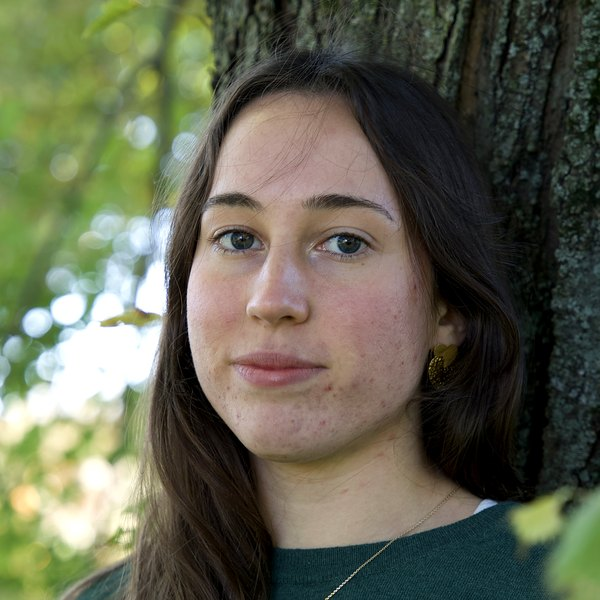
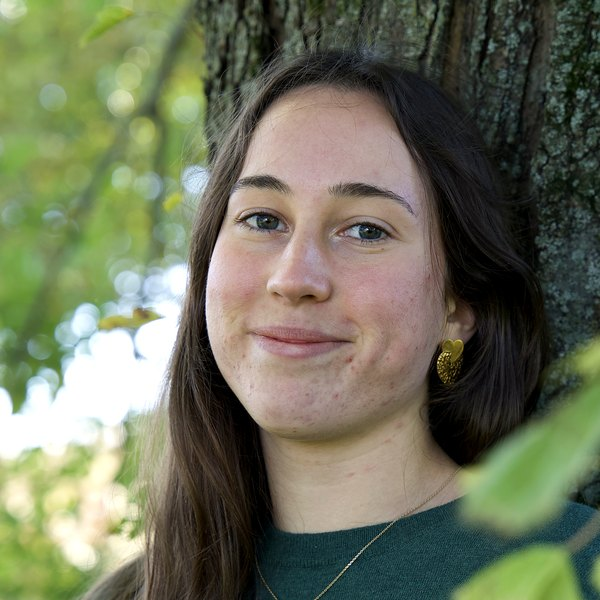
Smiley portrait; client quote as a small card beside the work; Send opens a ready email until a form service is connected

diff --git a/index.html b/index.html
@@ -20,7 +20,7 @@
 <link rel="preconnect" href="https://fonts.googleapis.com">
 <link rel="preconnect" href="https://fonts.gstatic.com" crossorigin>
 <link href="https://fonts.googleapis.com/css2?family=Instrument+Sans:wght@400;500;600&family=Instrument+Serif:ital@0;1&family=Cormorant+Garamond:ital,wght@0,500;1,500&family=Fraunces:ital,opsz,wght@0,9..144,500;0,9..144,600;1,9..144,500&family=Syne:wght@600;700;800&family=DM+Mono:wght@400;500&display=swap" rel="stylesheet">
-<link rel="stylesheet" href="styles.css?v=38">
+<link rel="stylesheet" href="styles.css?v=39">
 </head>
 <body>
 
@@ -103,6 +103,11 @@
       <p class="label" data-i18n="work.label">My work</p>
       <h2 data-i18n="work.title">Before and after</h2>
       <p data-i18n="work.p">Pick a project and drag the line to see how it started and how it looks now.</p>
+      <figure class="mini-quote">
+        <svg viewBox="0 0 64 48" aria-hidden="true"><path d="M0 48V28C0 12 8 3 24 0l3 6C17 9 13 15 13 22h11v26zM37 48V28C37 12 45 3 61 0l3 6c-10 3-14 9-14 16h11v26z"/></svg>
+        <blockquote><p data-i18n="q.text">I was amazed at how quickly it was done and how professional and beautiful it looks. Our old website looked outdated, and now everything looks wonderful. The wording is excellent too.</p></blockquote>
+        <figcaption><span class="quote-who">Orbita prijevodi</span><span class="quote-role" data-i18n="q.role">Owner, translation agency</span></figcaption>
+      </figure>
     </div>
     <div class="work" aria-label="My work">
       <div class="tabs project-tabs" role="tablist" aria-label="Projects">
@@ -133,14 +138,6 @@
         <a id="ba-visit" href="https://anjagregoran.github.io/orbita-prijevodi/" target="_blank" rel="noopener" data-i18n="ba.visit">Visit the site</a>
       </p>
     </div>
-  </section>
-
-  <section class="quote">
-    <svg class="quote-mark" viewBox="0 0 64 48" aria-hidden="true"><path d="M0 48V28C0 12 8 3 24 0l3 6C17 9 13 15 13 22h11v26zM37 48V28C37 12 45 3 61 0l3 6c-10 3-14 9-14 16h11v26z"/></svg>
-    <blockquote>
-      <p data-i18n="q.text">I was amazed at how quickly it was done and how professional and beautiful it looks. Our old website looked outdated, and now everything looks wonderful. The wording is excellent too.</p>
-      <footer><span class="quote-who">Orbita prijevodi</span><span class="quote-role" data-i18n="q.role">Owner, translation agency</span></footer>
-    </blockquote>
   </section>
 
   <section class="steps-section" id="how">
@@ -230,8 +227,8 @@
   <span>© 2026</span>
 </footer>
 
-<script src="content.js?v=19"></script>
-<script src="app.js?v=13"></script>
+<script src="content.js?v=20"></script>
+<script src="app.js?v=14"></script>
 <script src="demo.js?v=8"></script>
 </body>
 </html>

diff --git a/content.js b/content.js
@@ -1,6 +1,6 @@
-// FORM_ENDPOINT: where the sign-up form sends, for example "https://formsubmit.co/ajax/YOUR@EMAIL"
-// or a Formspree address. While it is empty, the form does not send.
-const FORM_ENDPOINT = "https://formsubmit.co/ajax/anja.gregoran1@gmail.com";
+// FORM_ENDPOINT: a form service address (for example Web3Forms). While it is empty,
+// pressing Send opens the visitor's email app with the whole enquiry already filled in.
+const FORM_ENDPOINT = "";
 
 // English lives in index.html. Croatian lives here, one line per piece of text.
 const HR = {
@@ -104,6 +104,7 @@ const STATUS = {
     offline: "The form is not connected yet, so your message was not sent.",
     sending: "Sending.",
     sent: "Thank you, I will write back to you soon.",
+    opened: "Your email app has opened with your message ready. Just press send and I will write back soon.",
     error: "The form could not send just now, but you can send the same message by email in one click.",
     mail: "Send by email"
   },
@@ -112,6 +113,7 @@ const STATUS = {
     offline: "Obrazac još nije povezan, pa vaša poruka nije poslana.",
     sending: "Šaljem.",
     sent: "Hvala vam, javit ću vam se uskoro.",
+    opened: "Otvorila se vaša aplikacija za e-poštu s već pripremljenom porukom. Samo je pošaljite, a ja ću vam se uskoro javiti.",
     error: "Obrazac trenutačno ne može poslati poruku, ali istu poruku možete poslati e-poštom jednim klikom.",
     mail: "Pošaljite e-poštom"
   }

diff --git a/app.js b/app.js
@@ -125,7 +125,14 @@
     e.preventDefault();
     const s = STATUS[lang];
     if (!form.checkValidity()) { status.textContent = s.missing; return; }
-    if (!FORM_ENDPOINT) { status.textContent = s.offline; return; }
+    if (!FORM_ENDPOINT) {
+      const d = new FormData(form);
+      const subject = `Website building offer: ${d.get("need")} from ${d.get("name")}`;
+      const body = `${d.get("message")}\n\n${d.get("name")}\n${d.get("email")}`;
+      location.href = `mailto:anja.gregoran1@gmail.com?subject=${encodeURIComponent(subject)}&body=${encodeURIComponent(body)}`;
+      status.textContent = s.opened;
+      return;
+    }
     status.textContent = s.sending;
     try {
       const data = new FormData(form);
@@ -212,7 +219,7 @@
     });
   }, { rootMargin: "0px 0px -12% 0px" }) : null;
   if (io && !reduce) {
-    document.querySelectorAll(".why, .service, .work-text, .work, .quote, .how li, .faq-list, .contact-text, .form").forEach((el) => {
+    document.querySelectorAll(".why, .service, .work-text, .work, .how li, .faq-list, .contact-text, .form").forEach((el) => {
       el.classList.add("reveal");
       io.observe(el);
     });

diff --git a/styles.css b/styles.css
@@ -724,3 +724,12 @@ img.portrait { width: 88px; height: 88px; border: 0; object-fit: cover; border-r
 @media (max-width: 700px) {
   .how { grid-template-columns: 1fr; }
 }
+
+/* Client quote as a small card beside the work */
+.mini-quote { margin: 14px 0 0; max-width: 36ch; padding: 20px 22px 18px; background: #fffcf7; border: 1px solid var(--line); border-radius: 18px; box-shadow: 0 24px 50px -40px rgba(43, 33, 27, 0.5); }
+.mini-quote svg { width: 24px; height: 18px; fill: var(--sage); display: block; margin-bottom: 10px; }
+.mini-quote blockquote { margin: 0; }
+.mini-quote blockquote p { font-family: var(--serif); font-size: 1.08rem; line-height: 1.35; color: var(--ink); }
+.mini-quote figcaption { margin-top: 12px; display: flex; flex-wrap: wrap; align-items: baseline; gap: 4px 10px; }
+.mini-quote .quote-who { font-family: var(--serif); font-style: italic; font-size: 1rem; color: var(--green); }
+.mini-quote .quote-role { font: 600 0.58rem var(--sans); letter-spacing: 0.15em; text-transform: uppercase; color: var(--ink-soft); }
